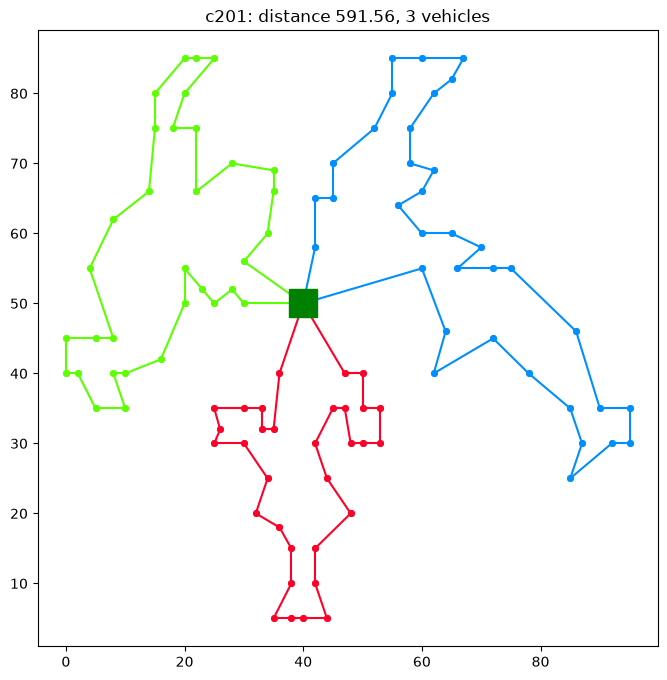
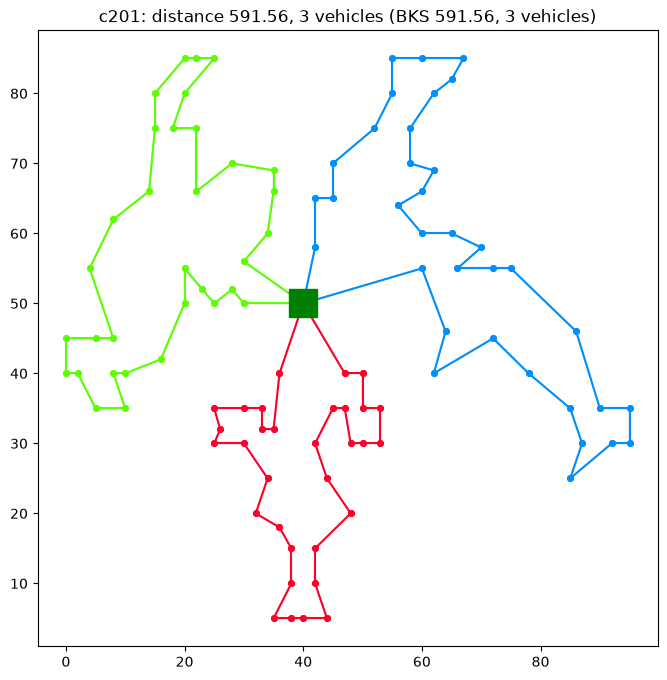
docs: draw the best-known solution behind the README route images
render_readme_images.py passes bks_dir=data/solutions/solomon-bks, so
each README image shows the SINTEF best-known routes in light grey
under ours, with BKS distance/vehicles in the title.

Changed region(s): [[0.1499, 0.0, 0.8996, 0.0309]]

diff --git a/scripts/render_readme_images.py b/scripts/render_readme_images.py
@@ -2,8 +2,10 @@
 """Render the README solution images from saved .sol files.
 
 For each instance name, reads data/instances/solomon/{name}.txt and
-data/solutions/solomon/{name}.sol and writes docs/solutions/{name}.png.
-Defaults to the six instances shown in the README (one per Solomon class).
+data/solutions/solomon/{name}.sol and writes docs/solutions/{name}.png,
+with the best-known solution (data/solutions/solomon-bks/{name}.sol, if
+fetched) drawn behind ours in light grey. Defaults to the six instances
+shown in the README (one per Solomon class).
 
 Usage:
     uv run python scripts/render_readme_images.py [name ...]
@@ -32,6 +34,7 @@ def main() -> None:
         instances_dir=REPO_ROOT / 'data' / 'instances' / 'solomon',
         solutions_dir=REPO_ROOT / 'data' / 'solutions' / 'solomon',
         out_dir=REPO_ROOT / 'docs' / 'solutions',
+        bks_dir=REPO_ROOT / 'data' / 'solutions' / 'solomon-bks',
     )
     for path in saved:
         print(path.relative_to(REPO_ROOT))

diff --git a/README.md b/README.md
@@ -113,20 +113,20 @@ All 56 Solomon 100-customer instances, 60 s budget per instance, seeded run (`rn
 | RC2 | 8 | +6.34% | 29 (26) | 5/8 | 5.2 min |
 | **all** | **56** | **+2.05%** | **445 (405)** | **27/56** | **25.6 min** |
 
-One solved instance per Solomon class from this run — the `.sol` files live in [`data/solutions/solomon/`](data/solutions/solomon/), and the images are rendered from them with `uv run python scripts/render_readme_images.py`:
+One solved instance per Solomon class from this run — the light-grey routes underneath are the SINTEF best-known solution (fetched with `uv run python scripts/fetch_bks_solutions.py` into [`data/solutions/solomon-bks/`](data/solutions/solomon-bks/)). The `.sol` files live in [`data/solutions/solomon/`](data/solutions/solomon/), and the images are rendered from them with `uv run python scripts/render_readme_images.py`:
 
 <table>
   <tr>
-    <td><img src="docs/solutions/c101.png" alt="c101 solution: distance 828.94, 10 vehicles" width="400"></td>
-    <td><img src="docs/solutions/c201.png" alt="c201 solution: distance 591.56, 3 vehicles" width="400"></td>
+    <td><img src="docs/solutions/c101.png" alt="c101 solution: distance 828.94, 10 vehicles (BKS 828.94, 10 vehicles)" width="400"></td>
+    <td><img src="docs/solutions/c201.png" alt="c201 solution: distance 591.56, 3 vehicles (BKS 591.56, 3 vehicles)" width="400"></td>
   </tr>
   <tr>
-    <td><img src="docs/solutions/r101.png" alt="r101 solution: distance 1664.70, 20 vehicles" width="400"></td>
-    <td><img src="docs/solutions/r201.png" alt="r201 solution: distance 1263.38, 4 vehicles" width="400"></td>
+    <td><img src="docs/solutions/r101.png" alt="r101 solution: distance 1664.70, 20 vehicles (BKS 1650.80, 19 vehicles)" width="400"></td>
+    <td><img src="docs/solutions/r201.png" alt="r201 solution: distance 1263.38, 4 vehicles (BKS 1252.37, 4 vehicles)" width="400"></td>
   </tr>
   <tr>
-    <td><img src="docs/solutions/rc101.png" alt="rc101 solution: distance 1685.47, 16 vehicles" width="400"></td>
-    <td><img src="docs/solutions/rc201.png" alt="rc201 solution: distance 1534.84, 4 vehicles" width="400"></td>
+    <td><img src="docs/solutions/rc101.png" alt="rc101 solution: distance 1685.47, 16 vehicles (BKS 1696.95, 14 vehicles)" width="400"></td>
+    <td><img src="docs/solutions/rc201.png" alt="rc201 solution: distance 1534.84, 4 vehicles (BKS 1406.94, 4 vehicles)" width="400"></td>
   </tr>
 </table>
 
